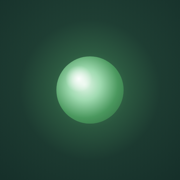
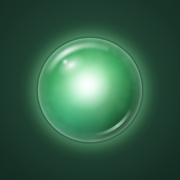
Orb: a lit glass sphere instead of flat discs
The orb looked flat next to the rest of the page. It is now drawn as a lit
glass sphere: a soft bloom and a glow hugging the edge, an emissive body that
falls off from a hot core to a deep green edge, a slow drifting light texture
inside, a diagonal shadow for volume and a teal bounce, a fresnel rim, a
curved window reflection with a soft glint, and a bounce reflection low on
the right. The logo uses a lighter "mark" cut so it stays crisp at 24px.
The bloom breathes, the inside drifts and the core flickers; reduced motion
stills all three.

The hub's orb is larger (104px) with a slightly wider centre circle, and the
favicon (SVG and ICO), app icon and link preview are redrawn from the same
markup the site renders.

Changed region(s): [[0.1389, 0.1667, 0.8611, 0.8611]]

diff --git a/src/components/site/lamp-orb.tsx b/src/components/site/lamp-orb.tsx
@@ -3,11 +3,25 @@ import { cn } from "@/lib/utils";
 
 /**
  * The orb: Lamp's logo and the light at the centre of the home page. A lamp on a stand gives light
- * to all in the house (Matthew 5:14-16). Drawn in SVG user units, so the blur scales with the size.
- * The outer glow breathes slowly (styles.css, .lamp-orb); reduced motion stills it.
+ * to all in the house (Matthew 5:14-16).
+ *
+ * Drawn as a lit glass sphere rather than flat discs: a soft bloom, a glow hugging the edge, an
+ * emissive body that falls off from a hot core, a slow drifting light texture inside, a fresnel rim,
+ * a soft specular highlight with a glint, and a bounce reflection low on the right. "mark" is the
+ * cut for the 20-24px logo tile: same sphere, fewer layers, so it stays crisp. Motion lives in
+ * styles.css (.lamp-orb); reduced motion stills it.
  */
-export function LampOrb({ className }: { className?: string }) {
-  const id = useId().replace(/:/g, "");
+export function LampOrb({
+  className,
+  variant = "full",
+}: {
+  className?: string;
+  variant?: "full" | "mark";
+}) {
+  const id = useId().replace(/[^a-zA-Z0-9_-]/g, "");
+  const ref = (name: string) => `url(#${id}-${name})`;
+  const full = variant === "full";
+
   return (
     <svg
       viewBox="0 0 64 64"
@@ -15,21 +29,125 @@ export function LampOrb({ className }: { className?: string }) {
       aria-hidden="true"
     >
       <defs>
-        <filter id={`${id}-halo`} x="-1" y="-1" width="3" height="3">
-          <feGaussianBlur stdDeviation="9" />
+        <radialGradient id={`${id}-bloom`}>
+          <stop offset="0" stopColor="#6fc287" stopOpacity="0.62" />
+          <stop offset="0.42" stopColor="#4a985e" stopOpacity="0.22" />
+          <stop offset="0.7" stopColor="#3f8a55" stopOpacity="0.07" />
+          <stop offset="1" stopColor="#3f8a55" stopOpacity="0" />
+        </radialGradient>
+        <radialGradient id={`${id}-hug`}>
+          <stop offset="0.72" stopColor="#6fc287" stopOpacity="0" />
+          <stop offset="0.77" stopColor="#6fc287" stopOpacity="0.42" />
+          <stop offset="0.92" stopColor="#4a985e" stopOpacity="0.08" />
+          <stop offset="1" stopColor="#4a985e" stopOpacity="0" />
+        </radialGradient>
+        <radialGradient id={`${id}-body`} cx="0.48" cy="0.46" r="0.58">
+          <stop offset="0" stopColor="#ffffff" />
+          <stop offset="0.12" stopColor="#e4fbe9" />
+          <stop offset="0.34" stopColor="#86d89b" />
+          <stop offset="0.6" stopColor="#3fa560" />
+          <stop offset="0.84" stopColor="#1f6a3d" />
+          <stop offset="1" stopColor="#164a2e" />
+        </radialGradient>
+        <linearGradient id={`${id}-shade`} x1="0.2" y1="0.1" x2="0.85" y2="1">
+          <stop offset="0.45" stopColor="#03130b" stopOpacity="0" />
+          <stop offset="1" stopColor="#03130b" stopOpacity="0.55" />
+        </linearGradient>
+        <radialGradient id={`${id}-sheen`} cx="0.3" cy="0.78" r="0.45">
+          <stop offset="0" stopColor="#4fd1b4" stopOpacity="0.32" />
+          <stop offset="1" stopColor="#4fd1b4" stopOpacity="0" />
+        </radialGradient>
+        <radialGradient id={`${id}-rim`}>
+          <stop offset="0.8" stopColor="#dcffe5" stopOpacity="0" />
+          <stop offset="0.94" stopColor="#c8f1d3" stopOpacity="0.2" />
+          <stop offset="1" stopColor="#e9fff0" stopOpacity="0.42" />
+        </radialGradient>
+        <radialGradient id={`${id}-core`}>
+          <stop offset="0" stopColor="#ffffff" stopOpacity="0.95" />
+          <stop offset="0.35" stopColor="#f0fff4" stopOpacity="0.55" />
+          <stop offset="1" stopColor="#d8f7e0" stopOpacity="0" />
+        </radialGradient>
+        <radialGradient id={`${id}-spec`}>
+          <stop offset="0" stopColor="#ffffff" stopOpacity="0.92" />
+          <stop offset="0.5" stopColor="#ffffff" stopOpacity="0.35" />
+          <stop offset="1" stopColor="#ffffff" stopOpacity="0" />
+        </radialGradient>
+        <linearGradient id={`${id}-window`} x1="0" y1="1" x2="1" y2="0">
+          <stop offset="0" stopColor="#ffffff" stopOpacity="0" />
+          <stop offset="0.55" stopColor="#ffffff" stopOpacity="0.85" />
+          <stop offset="1" stopColor="#ffffff" stopOpacity="0.1" />
+        </linearGradient>
+        <filter id={`${id}-soft`} x="-0.5" y="-0.5" width="2" height="2">
+          <feGaussianBlur stdDeviation="0.35" />
         </filter>
-        <filter id={`${id}-glow`} x="-1" y="-1" width="3" height="3">
-          <feGaussianBlur stdDeviation="4" />
-        </filter>
-        <filter id={`${id}-core`} x="-1" y="-1" width="3" height="3">
-          <feGaussianBlur stdDeviation="2" />
-        </filter>
+        <linearGradient id={`${id}-bounce`} x1="1" y1="0" x2="0" y2="1">
+          <stop offset="0" stopColor="#c8f1d3" stopOpacity="0" />
+          <stop offset="0.5" stopColor="#c8f1d3" stopOpacity="0.7" />
+          <stop offset="1" stopColor="#c8f1d3" stopOpacity="0" />
+        </linearGradient>
+        <clipPath id={`${id}-ball`}>
+          <circle cx="32" cy="32" r="15.5" />
+        </clipPath>
+        {full && (
+          <filter id={`${id}-plasma`} x="0" y="0" width="1" height="1">
+            <feTurbulence type="fractalNoise" baseFrequency="0.16" numOctaves="3" seed="7" />
+            <feColorMatrix
+              type="matrix"
+              values="0 0 0 0 0.62  0 0 0 0 1  0 0 0 0 0.72  1.7 0 0 0 -0.72"
+            />
+          </filter>
+        )}
       </defs>
-      <circle className="o-halo" cx="32" cy="32" r="26" filter={`url(#${id}-halo)`} />
-      <circle className="o-glow" cx="32" cy="32" r="21" filter={`url(#${id}-glow)`} />
-      <circle className="o-body" cx="32" cy="32" r="15.5" />
-      <circle className="o-core" cx="32" cy="32" r="10" filter={`url(#${id}-core)`} />
-      <circle className="o-hl" cx="27.2" cy="27.2" r="4.2" />
+
+      {/* light thrown around it */}
+      <circle className="o-bloom" cx="32" cy="32" r="31" fill={ref("bloom")} />
+      <circle cx="32" cy="32" r="21" fill={ref("hug")} />
+
+      {/* the sphere */}
+      <circle cx="32" cy="32" r="15.5" fill={ref("body")} />
+      {full && (
+        <g clipPath={ref("ball")}>
+          <g className="o-plasma">
+            <rect x="8" y="8" width="48" height="48" filter={ref("plasma")} opacity="0.2" />
+          </g>
+        </g>
+      )}
+      <circle cx="32" cy="32" r="15.5" fill={ref("shade")} />
+      <circle cx="32" cy="32" r="15.5" fill={ref("sheen")} />
+      <circle className="o-core" cx="31" cy="30.5" r={full ? 7.6 : 6.2} fill={ref("core")} />
+      <circle cx="32" cy="32" r="15.5" fill={ref("rim")} />
+
+      {/* glass: highlight, glint, bounce */}
+      <ellipse
+        cx="26.4"
+        cy="24.6"
+        rx={full ? 4.6 : 5}
+        ry={full ? 2.7 : 3.1}
+        transform="rotate(-32 26.4 24.6)"
+        fill={ref("spec")}
+      />
+      {full && (
+        <path
+          d="M19.50 27.45A13.3 13.3 0 0 1 36.98 19.67"
+          fill="none"
+          stroke={ref("window")}
+          strokeWidth="1.5"
+          strokeLinecap="round"
+          filter={ref("soft")}
+        />
+      )}
+      {full && (
+        <circle cx="24.6" cy="23.6" r="0.6" fill="#ffffff" opacity="0.9" filter={ref("soft")} />
+      )}
+      {full && (
+        <path
+          d="M44.14 37.66A13.4 13.4 0 0 1 33.17 45.35"
+          fill="none"
+          stroke={ref("bounce")}
+          strokeWidth="0.9"
+          strokeLinecap="round"
+        />
+      )}
     </svg>
   );
 }

diff --git a/src/styles.css b/src/styles.css
@@ -351,31 +351,27 @@ h3 {
     transition: transform 0.9s cubic-bezier(0.2, 0.7, 0.2, 1);
   }
 
-  /* the orb */
-  .lamp-orb .o-halo {
-    fill: var(--leaf);
-    opacity: 0.55;
-  }
-  .lamp-orb .o-glow {
-    fill: var(--leaf);
-    opacity: 0.45;
-    transform-box: fill-box;
-    transform-origin: center;
+  /* the orb (components/site/lamp-orb.tsx): the bloom breathes, the light inside drifts, the core flickers */
+  .lamp-orb .o-bloom {
+    transform-box: view-box;
+    transform-origin: 32px 32px;
     animation: orb-breathe 4.2s ease-in-out infinite;
   }
-  .lamp-orb .o-body {
-    fill: var(--leaf);
+  .lamp-orb .o-plasma {
+    transform-box: view-box;
+    transform-origin: 32px 32px;
+    animation: orb-drift 38s linear infinite;
   }
   .lamp-orb .o-core {
-    fill: var(--leaf-hi);
-    opacity: 0.85;
+    transform-box: fill-box;
+    transform-origin: center;
+    animation: orb-core 3.1s ease-in-out infinite;
   }
-  .lamp-orb .o-hl {
-    fill: #fff;
-    opacity: 0.8;
-  }
-  .ll-hub.is-lit .lamp-orb .o-glow {
+  .ll-hub.is-lit .lamp-orb .o-bloom {
     animation-duration: 1.8s;
+  }
+  .ll-hub.is-lit .lamp-orb .o-core {
+    animation-duration: 1.4s;
   }
 
   .ll-ticker {
@@ -439,12 +435,32 @@ h3 {
 @keyframes orb-breathe {
   0%,
   100% {
-    opacity: 0.34;
+    opacity: 0.82;
     transform: scale(1);
   }
   50% {
-    opacity: 0.52;
-    transform: scale(1.08);
+    opacity: 1;
+    transform: scale(1.06);
+  }
+}
+@keyframes orb-drift {
+  to {
+    transform: rotate(360deg);
+  }
+}
+@keyframes orb-core {
+  0%,
+  100% {
+    opacity: 0.85;
+    transform: scale(1);
+  }
+  45% {
+    opacity: 1;
+    transform: scale(1.07);
+  }
+  70% {
+    opacity: 0.92;
+    transform: scale(0.98);
   }
 }
 @keyframes ll-tick {

diff --git a/src/routes/index.tsx b/src/routes/index.tsx
@@ -556,9 +556,9 @@ function FundingOptions() {
               />
             ))}
           </svg>
-          <div className="ll-glass absolute left-1/2 top-1/2 grid aspect-square w-[38%] -translate-x-1/2 -translate-y-1/2 place-items-center rounded-full p-5 text-center">
+          <div className="ll-glass absolute left-1/2 top-1/2 grid aspect-square w-[41%] -translate-x-1/2 -translate-y-1/2 place-items-center rounded-full p-5 text-center">
             <div>
-              <LampOrb className="mx-auto size-20" />
+              <LampOrb className="mx-auto -mb-1 -mt-3 size-[6.5rem]" />
               <p className="mt-1.5 font-display text-[0.95rem] font-bold" aria-live="polite">
                 {shown ? shown.title : "One application"}
               </p>

diff --git a/src/components/site/layout.tsx b/src/components/site/layout.tsx
@@ -27,7 +27,7 @@ export function LampMark({ size = "lg" }: { size?: "lg" | "sm" }) {
       className={cn("grid place-items-center bg-forest ring-1 ring-white/10", box)}
       aria-hidden="true"
     >
-      <LampOrb className={orb} />
+      <LampOrb className={orb} variant="mark" />
     </span>
   );
 }
